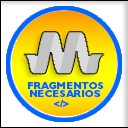
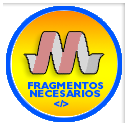
Agregando al README

diff --git a/CHANGELOG.md b/CHANGELOG.md
@@ -1,4 +1,7 @@
 # Registros
 
 ## 0.0.1 - (20 Feb 2018)
+- Actualización logo
+
+## 0.0.1 - (20 Feb 2018)
 - Actualizada a la versión 0.100.2
